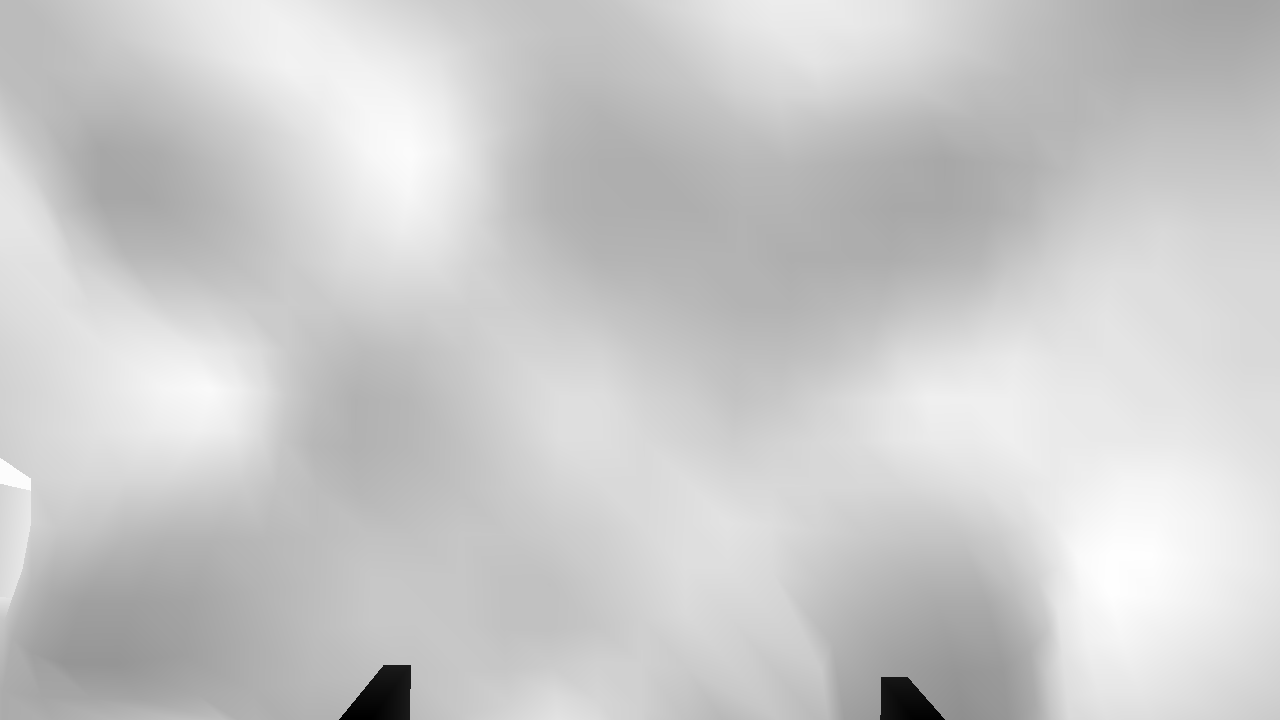
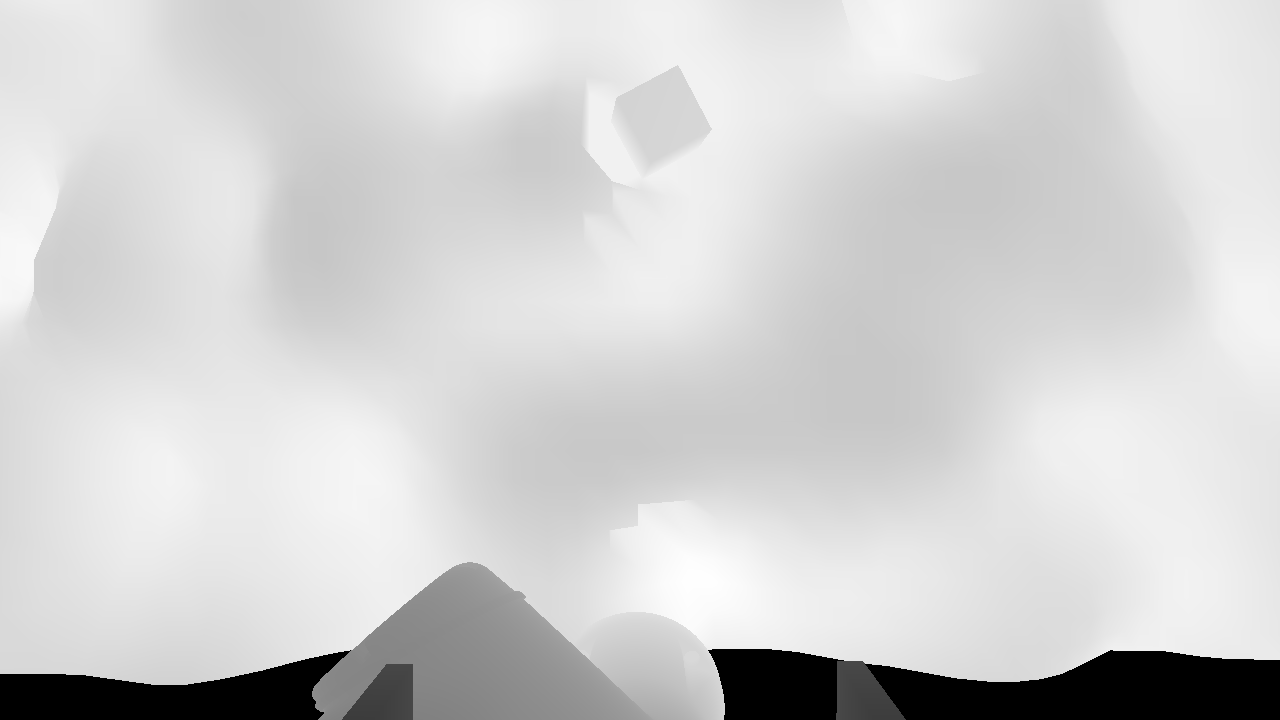
25/05/27

diff --git a/pushing/pushing_main.py b/pushing/pushing_main.py
@@ -34,7 +34,8 @@ from isaacsim.core.api.materials.preview_surface import PreviewSurface
 from isaacsim.core.cloner.grid_cloner import GridCloner
 from isaacsim.storage.native import find_nucleus_server
 from isaacsim.core.api.objects import DynamicCuboid
-from isaacsim.core.utils.rotations import euler_angles_to_quat, quat_to_euler_angles, quat_to_rot_matrix
+from isaacsim.core.utils.rotations import euler_angles_to_quat, quat_to_euler_angles, quat_to_rot_matrix, rot_matrix_to_quat
+from isaacsim.core.utils.xforms import get_world_pose
 
 
 
@@ -61,13 +62,15 @@ from utils.controllers.basic_manipulation_controller import BasicManipulationCon
 save_dir = "/home/gh6891/robot/pushing/test_image"
 os.makedirs(save_dir, exist_ok=True)
 
+
 # ─────────────────────────────────────────────────────── #
-def generate_height_map(depth_images, camera_poses, intrinsic_depth, map_resolution):
+def generate_height_map(depth_images, camera_poses, intrinsic_depth, map_resolution=0.003):
     all_transformed_points = []
-    map_resolution=0.01 
+    # print("depth images : ", depth_images)
     # camera_positions = [first_target_position, second_target_position, third_target_position]
     for i in range(len(depth_images)):
         depth_img = depth_images[i]
+        print(f"==>> depth_img: {depth_img.shape}")
 
         H, W = depth_img.shape # H :720, W :1280
         intrinsic_depth['fx']
@@ -81,8 +84,8 @@ def generate_height_map(depth_images, camera_poses, intrinsic_depth, map_resolut
 
         valid = depth_flat > 0.01
         z = depth_flat[valid]
-        x = (xmap[valid] - cx) * z / fx
-        y = (ymap[valid] - cy) * z / fy
+        x = -(xmap[valid] - cx) * z / fx
+        y = -(ymap[valid] - cy) * z / fy
         #카메라 좌표계의 3D포인트(N, 3)
         points = np.stack([x, y, z], axis=1)
         points_camera_homogeneous = np.hstack((points, np.ones((points.shape[0], 1)))) # (N, 4)로 변환
@@ -119,6 +122,7 @@ def generate_height_map(depth_images, camera_poses, intrinsic_depth, map_resolut
     height_map = np.full((len(grid_y), len(grid_x)), fill_value=np.nan, dtype=np.float32)
     
     # 각 3D 포인트를 해당 Height Map 셀에 매핑
+    print("계산 시작...")
     for x, y, z in zip(x_vals, y_vals, z_vals):
         # 월드 좌표를 그리드 인덱스로 변환
         xi = int((x - x_min) / map_resolution)
@@ -130,10 +134,10 @@ def generate_height_map(depth_images, camera_poses, intrinsic_depth, map_resolut
             # 만약 가장 높은 점을 원하면 'z > height_map[yi, xi]'로 조건 변경
             if np.isnan(height_map[yi, xi]) or z < height_map[yi, xi]:
                 height_map[yi, xi] = z
-    
+    print("계산 완료.")
     # 6. 시각화 및 저장
     plt.figure(figsize=(10, 8))
-    plt.imshow(height_map, cmap='viridis', origin='lower',
+    plt.imshow(height_map, cmap='terrain', origin='lower',
                extent=[x_min, x_max, y_min, y_max]) # 실제 월드 좌표 범위를 플롯에 표시
     plt.colorbar(label='Height (m)')
     plt.title("Merged Height Map from Multiple Camera Views")
@@ -187,13 +191,20 @@ def generate_height_map(depth_images, camera_poses, intrinsic_depth, map_resolut
     # plt.close()
 
     # return height_map
+
 def get_camera_pose(robot):
     # 카메라의 위치와 방향을 가져옵니다.
-    camera_position = robot.depth_cam.get_world_pose()[0]
-    print(f"==>> camera_position: {camera_position}")
-    camera_orientation = robot.depth_cam.get_world_pose()[1]
+    camera_position = get_world_pose("/World/ur5e/realsense")[0]
+    # print(f"==>> camera_position: {camera_position}")
+    camera_orientation = get_world_pose("/World/ur5e/realsense")[1]
     print(f"==>> camera_orientation: {camera_orientation}")
-    print(f"==>> camera_orientation: {quat_to_rot_matrix(camera_orientation)}")
+    
+
+    
+    # camera_orientation_euler = quat_to_euler_angles(camera_orientation, degrees=True)
+    
+    # print(f"==>> camera_orientation: {quat_to_euler_angles(camera_orientation, degrees= True)}")
+    # print(f"==>> camera_orientation: {quat_to_rot_matrix(camera_orientation)}")
 
     # 카메라의 변환 행렬을 생성합니다.
     camera_transform_matrix = np.eye(4)
@@ -260,11 +271,10 @@ def setup_world():
     my_robot.rgb_cam.initialize()
     my_robot.depth_cam.initialize()
     my_robot.depth_cam.add_distance_to_image_plane_to_frame()
-    return world, my_controller, my_robot, articulation_controller
+    return world, my_controller, my_robot, articulation_controller, cube
 
 
 def is_moving(robot, robot_is_moving):
-    print("test : ", robot_is_moving)
     if robot_is_moving is None:
         robot_is_moving = robot.is_moving()
         return robot_is_moving
@@ -274,7 +284,7 @@ def is_moving(robot, robot_is_moving):
 def robot_approach(robot, target_position, target_orientation, is_moving):
     # 선언한 my_controller를 사용하여 action 수행
     actions = my_controller.forward(
-        target_position=first_target_position,
+        target_position=target_position,
         end_effector_offset = np.array([0, 0, 0.0]),
         end_effector_orientation=target_orientation,
         current_joint_positions=robot.get_joints_state().positions
@@ -289,7 +299,7 @@ def robot_approach(robot, target_position, target_orientation, is_moving):
         my_controller.reset()
         
 def get_camera_image(robot, idx):
-    rgb = robot.rgb_cam.get_rgba()
+    rgb = robot.rgb_cam.get_rgb()
     depth = robot.depth_cam.get_depth()
     depth_clean = []
     if rgb is not None and depth is not None:
@@ -319,33 +329,26 @@ def scale_rgb_to_depth_fov(rgb_img, intrinsic_rgb, intrinsic_depth):
 
         rgb_W = rgb_img.shape[1]
         rgb_H = rgb_img.shape[0]
-
         # RGB 시야에 맞게 Depth 이미지 크기 조정 (가로, 세로)
         scale_x = np.tan(fov_depth_x / 2) / np.tan(fov_rgb_x / 2)
         scale_y = np.tan(fov_depth_y / 2) / np.tan(fov_rgb_y / 2)
-
         # RGB 이미지 크기 확장 (Depth 시야각에 맞추기 위해 비율 적용)
         expanded_width = int(rgb_W * scale_x)
         expanded_height = int(rgb_H * scale_y)
-
         # 확장된 이미지 크기 계산
         expanded_rgb_img = np.zeros((expanded_height, expanded_width, 3), dtype=np.uint8)
-
         # 원본 RGB 이미지를 확장된 중앙에 배치
         x_offset = (expanded_width - rgb_W) // 2
         y_offset = (expanded_height - rgb_H) // 2
         expanded_rgb_img[y_offset:y_offset+rgb_H, x_offset:x_offset+rgb_W] = rgb_img
-
         # Depth 해상도에 맞게 리사이즈
         depth_W = int(intrinsic_depth['cx'] * 2 + 1)
         depth_H = int(intrinsic_depth['cy'] * 2 + 1)
-
         resized_rgb_img = cv2.resize(expanded_rgb_img, (depth_W, depth_H), interpolation=cv2.INTER_NEAREST)
-
         # Depth 크롭 영역 저장 (옵션)
         if save_dir is not None:
             expanded_rgb_bgr = cv2.cvtColor(expanded_rgb_img, cv2.COLOR_RGB2BGR)
-            cv2.imwrite(os.path.join(save_dir, f"expanded_rgb_img{idx}_{i}.png"), expanded_rgb_bgr)
+            # cv2.imwrite(os.path.join(save_dir, f"expanded_rgb_img.png"), expanded_rgb_bgr)
 
         return resized_rgb_img
 
@@ -378,12 +381,14 @@ def estimate_cube_center_from_rgbd(
 
         contours, _ = cv2.findContours(mask, cv2.RETR_EXTERNAL, cv2.CHAIN_APPROX_SIMPLE)
         if len(contours) == 0:
+            print("[Warning] No contours found in the mask")
             return None
 
         # 가장 큰 contour 선택
         contour = max(contours, key=cv2.contourArea)
         M = cv2.moments(contour)
         if M["m00"] == 0:
+            print("[Warning] No valid contour found")
             return None
 
         # 마스크에서 얻은 RGB 기준 중심 좌표
@@ -405,6 +410,7 @@ def estimate_cube_center_from_rgbd(
         print(f"==>> z: {z}")
 
         if not np.isfinite(z) or z < 0.01:
+            print("[Warning] Invalid depth value at the center pixel")
             return None
         # Intrinsic
         fx = intrinsic_depth['fx']
@@ -423,13 +429,38 @@ def estimate_cube_center_from_rgbd(
         y = -(cy_depth - cy_intr) * z / fy
         point_cam = np.array([x, y, z])
 
-        R_world_cam = quat_to_rot_matrix(cam_orientation)
-
+        # R_world_cam = quat_to_rot_matrix(cam_orientation)
+        R_world_cam = cam_orientation
         point_world = R_world_cam @ point_cam + cam_position
-
+    
         return point_world, cx_depth, cy_depth
 
+def pixel_to_mm(y_px, x_px, height_map, pixel_size_mm=25):
+    """
+    픽셀 좌표 (y, x)를 mm 좌표 (x_mm, y_mm)로 변환.
+    기준:
+    - 실세계 (0, 0)은 height map의 **하단 중심**
+    - 즉, (39, 40) 픽셀이 (0, 0)에 해당함
+    """
+    height_px, width_px = height_map.shape
+    x_mm = (x_px - (width_px / 2 - 0.5)) * pixel_size_mm
+    y_mm = (height_px - 1 - y_px) * pixel_size_mm  # 하단이 y=0
+    return x_mm, y_mm
+    # height_map shape = (40, 80)
 
+def save_original_heightmap(height_map, save_dir):
+    """
+    원본 height map을 이미지로 저장합니다.
+    """
+    # 이미지 1. 원본 height map 저장
+    extent = [-1000, 1000, 0, 1000]  # (left, right, bottom, top)
+    plt.imshow(height_map, cmap='terrain', extent=extent, origin='upper')
+    plt.title("Height Map")
+    plt.xlabel("X (mm)")
+    plt.ylabel("Y (mm)")
+    plt.colorbar(label="Height")
+    plt.savefig(os.path.join(save_dir, "height_map_only.png"))
+    plt.close()
 
 
 if __name__ == "__main__":
@@ -437,13 +468,20 @@ if __name__ == "__main__":
     depth_images = []
     camera_poses = []
     robot_is_moving = None
-    world, my_controller, my_robot, articulation_controller = setup_world()
+    world, my_controller, my_robot, articulation_controller, cube = setup_world()
     
     state = "APPROACH_1"
-    first_target_position = np.array([0.4, 0.5, 0.4])
-    second_target_position = np.array([0.0, 0.5, 0.4])
-    third_target_position = np.array([-0.4, 0.5, 0.4])
+    first_target_position = np.array([0.0, 0.2, 0.6])
+    second_target_position = np.array([0.0, 0.5, 0.6])
+    third_target_position = np.array([-0.5, 0.5, 0.6])
 
+    fourth_target_position = np.array([-0.5, 0.5, 0.6])
+    fith_target_position = np.array([-0.5, 0.5, 0.6])
+    sixth_target_position = np.array([-0.5, 0.5, 0.6])
+
+    seven_target_position = np.array([-0.5, 0.5, 0.6])
+    eight_target_position = np.array([-0.5, 0.5, 0.6])
+    nineth_target_position = np.array([-0.5, 0.5, 0.6])
 
     target_orientation_euler_1 = np.array([180.0, -90.0, 0.0]) # euler angles
     target_orientation_euler_2 = np.array([180.0, -90.0, 0.0]) # euler angles
@@ -469,6 +507,7 @@ if __name__ == "__main__":
         'cx': (my_robot.depth_cam.get_resolution()[0] - 1) / 2,
         'cy': (my_robot.depth_cam.get_resolution()[1] - 1) / 2,
     }
+    point_world, cx_depth, cy_depth = None, None, None
 
     prev_robot_is_moving = False
     idx = 0 #사진 인덱스
@@ -482,22 +521,33 @@ if __name__ == "__main__":
                 robot_approach(my_robot, first_target_position, target_orientation_1, robot_is_moving)
                 if robot_just_stopped:
                     rgb, depth = get_camera_image(my_robot, "APPROACH_1")
-                    print(f"==>> rgb: {rgb}")
-                    print(f"==>> depth: {depth}")
                     if rgb is not None and depth is not None:
-                        print("여기까진왔다~~")
                         camera_pose = get_camera_pose(my_robot)
-                        print(f"==>> camera_pose: {camera_pose}")
                         depth_images.append(depth)
                         camera_poses.append(camera_pose)
-                        state = "APPROACH_2"
-            
+                        print(f"==>> camera_position: {camera_pose[:3, 3]}")
+                        state = "GNERATE_HEIGHT_MAP"
+
+                        cam_position = camera_pose[:3, 3]
+                        cam_orientation = camera_pose[:3, :3]
+                        color_lower = np.array([0, 0, 50])
+                        color_upper = np.array([80, 80, 255])
+                        print("rgb.shape : ", rgb.shape)
+                        # results = estimate_cube_center_from_rgbd(rgb, depth, cam_position, cam_orientation, color_lower, color_upper,intrinsic_rgb, intrinsic_depth)
+                        # if results is not None:
+                        #     point_world, cx_depth, cy_depth = results
+                        #     print(f"==>> point_world: {point_world}")
+                        #     print(f"==>> cx_depth: {cx_depth}")
+                        #     print(f"==>> cy_depth: {cy_depth}")
+                        #     print(cube.get_world_pose()[0])
+                        # else:
+                        #     print("==>> results: 생성되지않음")
+                        #     print(cube.get_world_pose()[0])
+                            
             elif state == "APPROACH_2":
                 robot_approach(my_robot, second_target_position, target_orientation_2, robot_is_moving)
                 if robot_just_stopped:
-                    rgb, depth = get_camera_image(my_robot, "APPROACH_1")
-                    print(f"==>> rgb: {rgb}")
-                    print(f"==>> depth: {depth}")
+                    rgb, depth = get_camera_image(my_robot, "APPROACH_2")
                     
                     if rgb is not None and depth is not None:
                         camera_pose = get_camera_pose(my_robot)
@@ -505,24 +555,41 @@ if __name__ == "__main__":
                         depth_images.append(depth)
                         camera_poses.append(camera_pose)
                         state = "APPROACH_3"
+
+
+                        cam_position = camera_pose[:3, 3]
+                        cam_orientation = camera_pose[:3, :3]
+                        color_lower = np.array([0, 0, 120])
+                        color_upper = np.array([60, 60, 255])
+                        print("rgb.shape : ", rgb.shape)
+                       
                         
 
             elif state == "APPROACH_3":
                 robot_approach(my_robot, third_target_position, target_orientation_3, robot_is_moving)
                 if robot_just_stopped:
-                    rgb, depth = get_camera_image(my_robot, "APPROACH_1")
+                    rgb, depth = get_camera_image(my_robot, "APPROACH_3")
                     if rgb is not None and depth is not None:
                         camera_pose = get_camera_pose(my_robot)
-                        print(f"==>> camera_pose: {camera_pose}")
                         depth_images.append(depth)
                         camera_poses.append(camera_pose)
                         state = "GNERATE_HEIGHT_MAP"
-                        depth_images = []
+                        
+
+
+                        cam_position = camera_pose[:3, 3]
+                        cam_orientation = camera_pose[:3, :3]
+                        color_lower = np.array([0, 0, 120])
+                        color_upper = np.array([60, 60, 255])
+                        print("rgb.shape : ", rgb.shape)
+                       
+
+
 
             # elif state == "APPROACH_4":
             #     robot_approach(my_robot, second_target_position, target_orientation_4, robot_is_moving)
             #     if robot_just_stopped:
-            #         rgb, depth = get_camera_image(my_robot, "APPROACH_1")
+            
             #         if rgb is not None and depth is not None:
             #             depth_images.append(depth)
             #             # camera_poses.append()
@@ -536,8 +603,13 @@ if __name__ == "__main__":
                 print("==>> state: ", state)
                 generate_height_map(depth_images, camera_poses, intrinsic_depth)
                 whether_generate_height_map = True
+                depth_images = []
 
-
+                #비교용 원본 이미지 저장
+                load_path = os.path.join(save_dir, "heightmap_array.npy")
+                height_map = np.load(load_path)
+                print(load_path)
+                save_original_heightmap(height_map, save_dir)
 
             prev_robot_is_moving = robot_is_moving
             idx += 1

diff --git a/pushing/terraincreation.py b/pushing/terraincreation.py
@@ -93,6 +93,7 @@ class TerrainCreation(BaseTask):
         # heightfield[7*num_rows:8*num_rows, :] = stepping_stones_terrain(new_sub_terrain(), stone_size=1.,
         #                                                                 stone_distance=1., max_height=0.5, platform_size=0.).height_field_raw
         
+        np.save("/home/gh6891/robot/pushing/test_image/heightmap_array", heightfield)
         print("heightfield.shape : ",heightfield.shape)
         print("heightfield.type : ",type(heightfield))
         # plt.figure(figsize=(10, 8))
